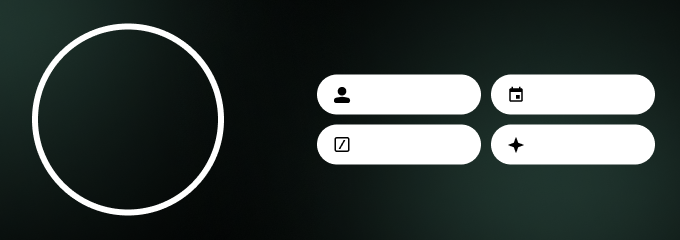
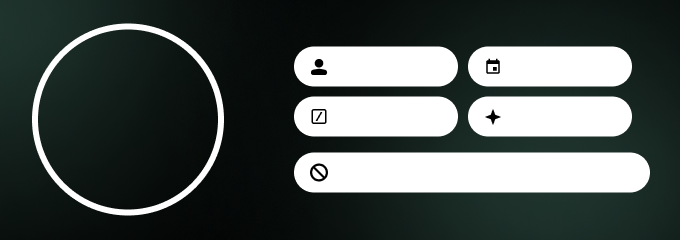
chore: update user profile

Changed region(s): [[0.4324, 0.175, 0.9882, 0.8167]]

diff --git a/discord/app/public/stats/interactions/stats-info.service.ts b/discord/app/public/stats/interactions/stats-info.service.ts
@@ -20,6 +20,7 @@ import path from "path";
 import { inject, injectable } from "tsyringe";
 import { pathToFileURL } from "url";
 
+import type { BumpBan } from "#/shared/db/models/uppy-discord/bump-ban.model.js";
 import { BumpBanModel } from "#/shared/db/models/uppy-discord/bump-ban.model.js";
 import type { BumpUserDocument } from "#/shared/db/models/uppy-discord/bump-user.model.js";
 import { BumpUserRepository } from "#/shared/db/repositories/uppy-discord/bump-user.repository.js";
@@ -40,7 +41,7 @@ export class StatsInfoService extends BaseUppyService {
   constructor(
     @inject(BumpBanService) private bumpBanService: BumpBanService,
     @inject(SettingsRepository) private settingsRepository: SettingsRepository,
-    @inject(BumpUserRepository) private bumpUserRepository: BumpUserRepository,
+    @inject(BumpUserRepository) private bumpUserRepository: BumpUserRepository
   ) {
     super();
   }
@@ -51,7 +52,7 @@ export class StatsInfoService extends BaseUppyService {
       | UserContextMenuCommandInteraction,
     user?: User,
     from?: string,
-    to?: string,
+    to?: string
   ) {
     await interaction.deferReply();
     user = typeof user === "undefined" ? interaction.user : user;
@@ -63,7 +64,7 @@ export class StatsInfoService extends BaseUppyService {
         interaction.guildId!,
         user.id,
         fromDate.toJSDate(),
-        toDate.toJSDate(),
+        toDate.toJSDate()
       ),
       BumpBanModel.model.findOne({
         guildId: interaction.guildId,
@@ -81,7 +82,7 @@ export class StatsInfoService extends BaseUppyService {
     const canManage = authorMember.roles.cache.some(
       (r) =>
         settings?.roles.managerRoles &&
-        settings?.roles.managerRoles.includes(r.id),
+        settings?.roles.managerRoles.includes(r.id)
     );
     const canRemove =
       bumpBan && (bumpBan?.removeIn ?? 0) < BumpBanLimit && canManage;
@@ -91,15 +92,16 @@ export class StatsInfoService extends BaseUppyService {
         .setLabel("Снять бамп бан")
         .setCustomId(StaffCustomIds.info.buttons.actions.removeBumpBan)
         .setStyle(ButtonStyle.Danger)
-        .setDisabled(!canRemove),
+        .setDisabled(!canRemove)
     );
 
     const banner = new AttachmentBuilder(
       await this.drawBanner(
         user,
         entry[0],
-        `${formatDate(fromDate.toJSDate())}-${formatDate(toDate.toJSDate())}`,
-      ),
+        bumpBan,
+        `${formatDate(fromDate.toJSDate())}-${formatDate(toDate.toJSDate())}`
+      )
     ).setName("image.png");
 
     const container = new ContainerBuilder()
@@ -107,8 +109,8 @@ export class StatsInfoService extends BaseUppyService {
         builder.addItems((builder) =>
           builder
             .setDescription("Баннер пользователя")
-            .setURL("attachment://image.png"),
-        ),
+            .setURL("attachment://image.png")
+        )
       )
       .addSeparatorComponents(new SeparatorBuilder().setDivider(true))
       .addActionRowComponents(removeBumpBan);
@@ -138,7 +140,8 @@ export class StatsInfoService extends BaseUppyService {
   private async drawBanner(
     user: User,
     entry: Partial<BumpUserDocument> | undefined | null,
-    interval: string,
+    bumpBan: BumpBan | undefined | null,
+    interval: string
   ) {
     const canvas = createCanvas(680, 240);
 
@@ -148,12 +151,12 @@ export class StatsInfoService extends BaseUppyService {
 
     const bannerPath = path.join(
       dirname(import.meta.url),
-      `${root}/assets/images/user-profile.png`,
+      `${root}/assets/images/user-profile.png`
     );
 
     const fontPath = path.join(
       dirname(import.meta.url),
-      `${root}/assets/fonts/Onest-ExtraBold.ttf`,
+      `${root}/assets/fonts/Onest-ExtraBold.ttf`
     );
 
     GlobalFonts.registerFromPath(fontPath, "onest-extrabold");
@@ -173,10 +176,10 @@ export class StatsInfoService extends BaseUppyService {
       36,
       29.5,
       183,
-      180,
+      180
     );
 
-    const baseCoordinates = { x: 317, y: 74 };
+    const baseCoordinates = { x: 294, y: 46.5 };
 
     function getMaxStringLength(str: string) {
       const maxLength = 18;
@@ -188,8 +191,8 @@ export class StatsInfoService extends BaseUppyService {
     ctx.fillText(
       getMaxStringLength(UsersUtility.getUsername(user)),
       baseCoordinates.x + 40,
-      baseCoordinates.y + 26,
-      105,
+      baseCoordinates.y + 24,
+      105
     );
 
     // Нижняя (команды)
@@ -199,12 +202,12 @@ export class StatsInfoService extends BaseUppyService {
           entry?.dsMonitoring ?? 0,
           entry?.sdcMonitoring ?? 0,
           entry?.serverMonitoring ?? 0,
-          entry?.disboardMonitoring ?? 0,
-        ).toString(),
+          entry?.disboardMonitoring ?? 0
+        ).toString()
       ),
       baseCoordinates.x + 40,
-      baseCoordinates.y + 26 + 50,
-      105,
+      baseCoordinates.y + 24 + 50,
+      105
     );
 
     // Правая строка (дата)
@@ -212,16 +215,34 @@ export class StatsInfoService extends BaseUppyService {
     ctx.fillText(
       getMaxStringLength(interval),
       baseCoordinates.x + 40 + 174,
-      baseCoordinates.y + 26,
-      105,
+      baseCoordinates.y + 24,
+      105
     );
 
     // Нижняя (поинты)
     ctx.fillText(
       getMaxStringLength((entry?.points ?? 0).toString()),
       baseCoordinates.x + 40 + 174,
-      baseCoordinates.y + 26 + 50,
-      105,
+      baseCoordinates.y + 24 + 50,
+      105
+    );
+
+    // Бамп бан
+
+    const bumpBanCount =
+      bumpBan && bumpBan.removeIn < BumpBanLimit
+        ? BumpBanLimit - bumpBan.removeIn
+        : 0;
+    const bumpBanText =
+      bumpBanCount === 0
+        ? "Команду /bump можно использовать"
+        : `${bumpBanCount} команд до снятия БАМП БАНА`;
+
+    ctx.fillText(
+      bumpBanText,
+      baseCoordinates.x + 40,
+      baseCoordinates.y + 24 + 106,
+      221
     );
 
     return canvas.toBuffer("image/png");
@@ -229,7 +250,7 @@ export class StatsInfoService extends BaseUppyService {
 
   private async handleBumpBanRemoval(
     interaction: ButtonInteraction,
-    member: GuildMember,
+    member: GuildMember
   ) {
     await interaction.deferReply({ flags: MessageFlags.Ephemeral });
     const [settings, bumpBan] = await Promise.all([
@@ -258,7 +279,7 @@ export class StatsInfoService extends BaseUppyService {
       !authorMember.roles.cache.some(
         (r) =>
           settings?.roles.managerRoles &&
-          settings?.roles.managerRoles.includes(r.id),
+          settings?.roles.managerRoles.includes(r.id)
       )
     ) {
       return interaction.editReply({
